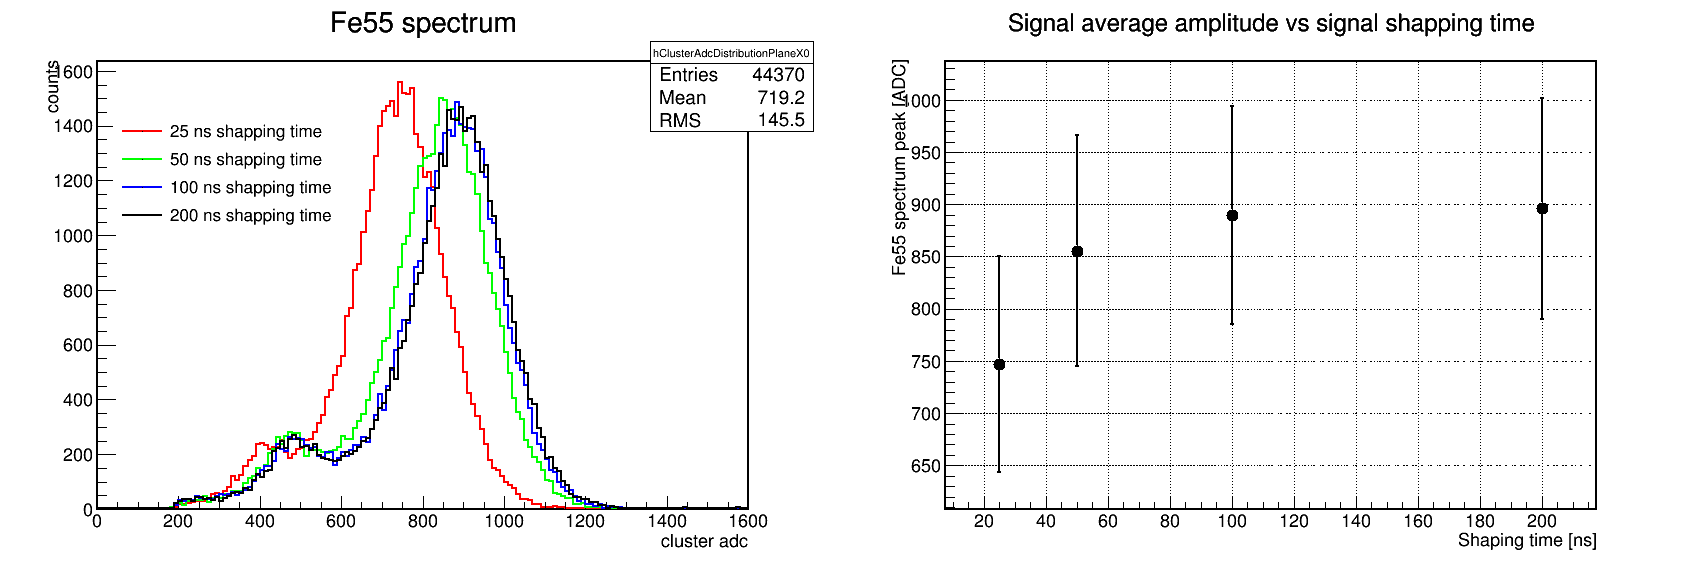
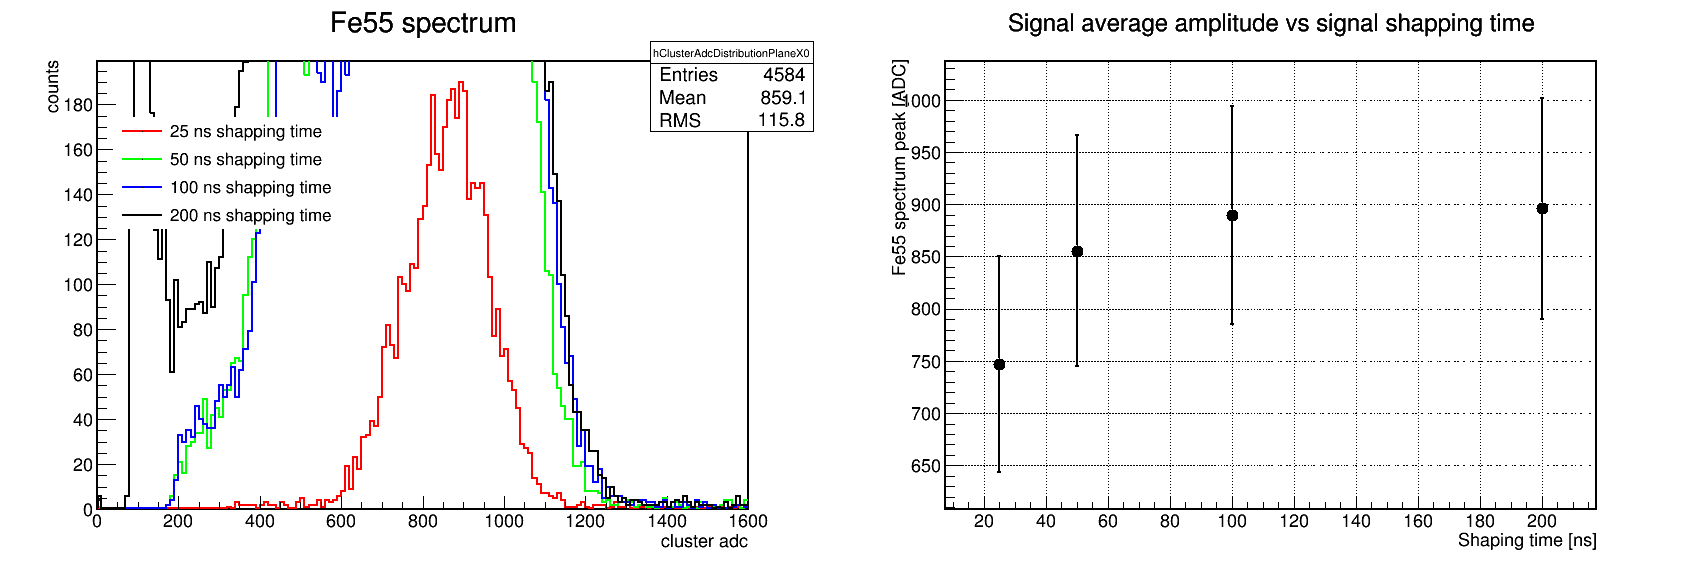
add timing to cluster struct

diff --git a/calibration_code/pulser_dac/dac_calibration.cpp b/calibration_code/pulser_dac/dac_calibration.cpp
@@ -15,7 +15,7 @@
 
 using namespace std;
 
-void dac_calibration(const char* path = "~/calib_run_0645.root")
+void dac_calibration(const char* path = "~/data/calib_run_0710.root")
 {
     TFile *f = new TFile(path);
     TTree *T = (TTree*)f->Get("calib");
@@ -134,8 +134,8 @@ void dac_calibration(const char* path = "~/calib_run_0645.root")
     gr -> GetXaxis() -> SetTitle("pulser DAC [counts]");
     gr -> GetYaxis() -> SetTitle("output xADC [counts]");
 
-    double p2 = (gr -> GetFunction("pol1")) -> GetParameter("p0");
-    double p3 = (gr -> GetFunction("pol1")) -> GetParameter("p1");
+    double p2 = (gr -> GetFunction("pol1")) -> GetParameter("p0"); // intercept
+    double p3 = (gr -> GetFunction("pol1")) -> GetParameter("p1"); // slope
     double p2_err = (gr -> GetFunction("pol1")) -> GetParError(0);
     double p3_err = (gr -> GetFunction("pol1")) -> GetParError(1);
     TLatex text;
@@ -143,10 +143,10 @@ void dac_calibration(const char* path = "~/calib_run_0645.root")
     text.SetTextSize(0.7 * text.GetTextSize());
     stringstream ss;
     ss.str("");
-    ss << "Slope      : "<<std::setprecision(4)<<p2<<" #pm "<<p2_err<<" cts/cts";
+    ss << "Slope      : "<<std::setprecision(4)<<p3<<" #pm "<<p3_err<<" cts/cts";
     text.DrawLatexNDC(0.12, 0.85, ss.str().c_str());
     ss.str("");
-    ss << "Intercept : "<<std::setprecision(4)<<p3<<" #pm "<<p3_err<<" cts";
+    ss << "Intercept : "<<std::setprecision(4)<<p2<<" #pm "<<p2_err<<" cts";
     text.DrawLatexNDC(0.12, 0.80, ss.str().c_str());
     c0 -> SetGridx();
     c0 -> SetGridy();
@@ -168,10 +168,10 @@ void dac_calibration(const char* path = "~/calib_run_0645.root")
     double p1 = (gr1 -> GetFunction("pol1")) -> GetParameter("p1");
     double p1_err = (gr1 -> GetFunction("pol1")) -> GetParError(1);
     ss.str("");
-    ss << "Slope      : "<<std::setprecision(4)<<p0<<" #pm "<<p0_err<<" mV/cts";
+    ss << "Slope      : "<<std::setprecision(4)<<p1<<" #pm "<<p1_err<<" mV/cts";
     text.DrawLatexNDC(0.12, 0.85, ss.str().c_str());
     ss.str("");
-    ss << "Intercept : "<<std::setprecision(4)<<p1<<" #pm "<<p1_err<<" mV";
+    ss << "Intercept : "<<std::setprecision(4)<<p0<<" #pm "<<p0_err<<" mV";
     text.DrawLatexNDC(0.12, 0.80, ss.str().c_str());
     c1 -> SetGridx();
     c1 -> SetGridy();

diff --git a/src/Analyzer.cpp b/src/Analyzer.cpp
@@ -153,6 +153,8 @@ void Analyzer::FillEvent(std::vector<std::vector<int>> *m_pdo,
     int daqTimeStamp_ns = v_daq_timestamp_ns -> at(0);
 
     int strip_threshold = Config::instance()->get_config().at("strip offline threshold").val<int>();
+    int strip_tdo_min = Config::instance()->get_config().at("strip tdo min").val<int>();
+    int strip_tdo_max = Config::instance()->get_config().at("strip tdo max").val<int>();
 
     // group cluster, first round, no cut
     auto group_cluster = [&](
@@ -178,6 +180,9 @@ void Analyzer::FillEvent(std::vector<std::vector<int>> *m_pdo,
             {
                 // cut strips with adc < strip threshold
                 if(adc[i] < strip_threshold)
+                    continue;
+                // tdo cut
+                if(time[i] < strip_tdo_min || time[i] > strip_tdo_max)
                     continue;
 
                 if(charge_temp.size() > 0)
